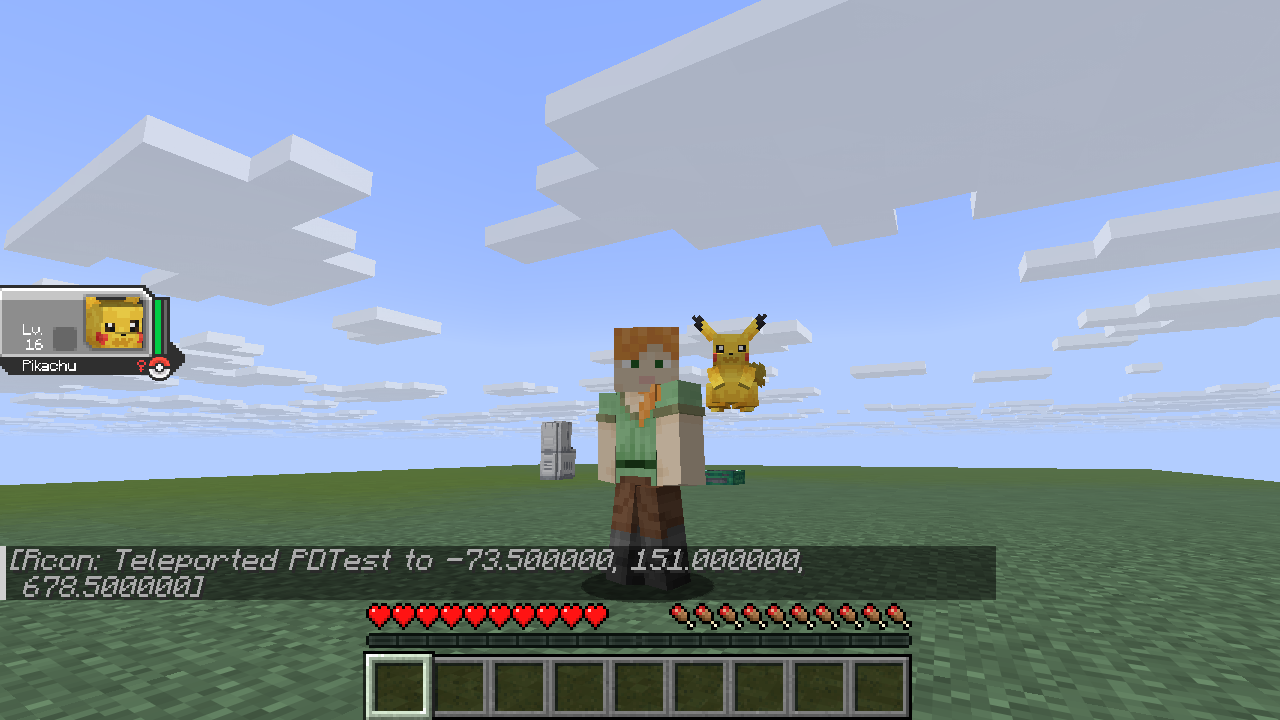
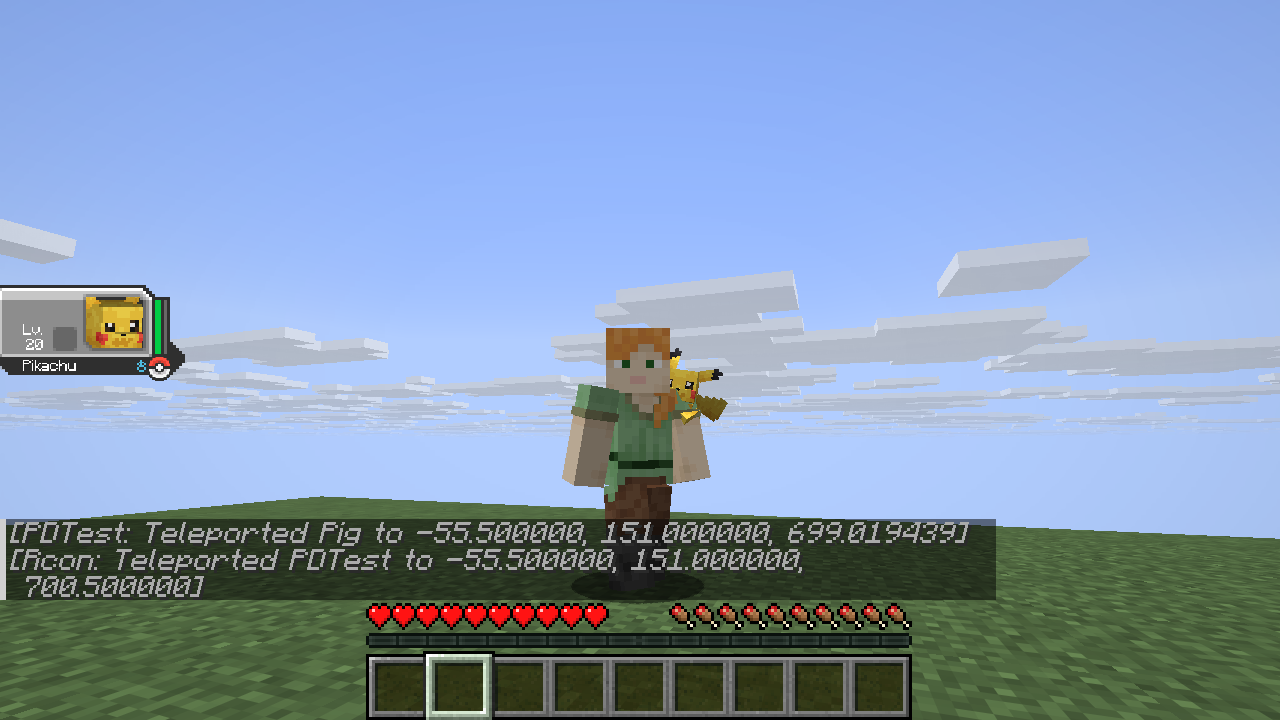
Shoulder Pokémon sit in Cobblemon's shoulder poses (shoulder_left / shoulder_right animations now converted)
Claude-Session: https://claude.ai/code/session_013qmVWfL2vttKu2B98Mqwws

diff --git a/plugin/src/main/java/io/github/kahngjoonkoh/cobblemonlink/Companions.java b/plugin/src/main/java/io/github/kahngjoonkoh/cobblemonlink/Companions.java
@@ -79,6 +79,7 @@ final class Companions {
         if (side < 0) return true;
         s[side] = e;
         e.setGravity(false);
+        Spawner.animate(e, side == 0 ? "shoulder_left" : "shoulder_right", kr.toxicity.model.api.animation.AnimationIterator.Type.LOOP);
         return true;
     }
 
@@ -208,6 +209,8 @@ final class Companions {
         for (int i = 0; i < 2; i++) if (e.equals(s[i])) s[i] = null;
         if (s[0] == null && s[1] == null) shoulders.remove(p.getUniqueId());
         e.setGravity(true);
+        Spawner.stopAnimation(e, "shoulder_left");
+        Spawner.stopAnimation(e, "shoulder_right");
         if (e.isValid()) e.teleport(spot(p));
     }
 
@@ -220,9 +223,8 @@ final class Companions {
                 if (s[i] == null) continue;
                 if (p == null || !s[i].isValid()) { s[i] = null; continue; }
                 Location l = p.getLocation();
-                double yaw = Math.toRadians(l.getYaw()), side = i == 0 ? 0.38 : -0.38, back = 0.12; // + left, - right of the player
-                Location at = l.clone().add(Math.cos(yaw) * side + Math.sin(yaw) * back, p.isSneaking() ? 0.95 : 1.25,
-                        Math.sin(yaw) * side - Math.cos(yaw) * back);
+                double yaw = Math.toRadians(l.getYaw()), side = 0; // the pose itself moves it onto the left or right shoulder
+                Location at = l.clone().add(Math.cos(yaw) * side, p.isSneaking() ? 0.9 : 1.2, Math.sin(yaw) * side);
                 at.setPitch(0);
                 s[i].teleport(at);
             }

diff --git a/tools/build_all.py b/tools/build_all.py
@@ -73,6 +73,10 @@ def plan(res):
             for dst, want, fallback in (('idle', 'STAND', 'ground_idle'), ('walk', 'WALK', 'ground_walk')):
                 anims[dst] = pose_anims(poser, want) or (poser_name, fallback)
             anims['battle_idle'] = pose_anims(poser, 'STAND', avoid=('water', 'fly', 'hover'), need='battle') or (poser_name, 'battle_idle')
+            for side in ('left', 'right'):  # Companions' shoulder riding
+                got = pose_anims(poser, f'SHOULDER_{side.upper()}', avoid=())
+                if got:
+                    anims[f'shoulder_{side}'] = got
             for dst in BATTLE:
                 m = BEDROCK_ANIM.search(poser.get('animations', {}).get(dst, ''))
                 anims[dst] = m.groups() if m else (poser_name, dst)

diff --git a/PARITY.md b/PARITY.md
@@ -88,7 +88,7 @@ Counts: see [the summary at the end](#summary).
 | Pokédex (seen / caught, entries, forms) | ✓ | `/pokedex`; no regional dexes or scanner | 🟡 | 🟡 |
 | Sending out / following | ✓ | Send out the lead | 🟡 | 🟡 |
 | Riding (1.7+) | 13 ride settings | Right-click your sent-out Pokémon with an empty hand to ride it (the 115 species with Cobblemon riding data), Shift to get off (Bedrock: tap it); it goes where you look at its SPEED stat; jumps on land, flies toward your aim if it has AIR, swims if it has LIQUID ([Java](docs/evidence/m24-java-riding-rapidash.png)); one rider, no stamina, sprint or seat offsets (the rider sits low in big models); Bedrock not checked on a client | 🟡 | 🟡 |
-| Shoulder mounting | ✓ | Shift + right-click your sent-out Pokémon (Cobblemon's 94 shoulderMountable species) to put it on a shoulder, left then right; Shift + right-click with an empty hand to let it down ([evidence](docs/evidence/m14-java-shoulder.png)); no shoulder pose or shoulder effects; Bedrock gets the same carrier moves but wasn't checked on a client | 🟡 | 🟡 |
+| Shoulder mounting | ✓ | Shift + right-click your sent-out Pokémon (Cobblemon's 94 shoulderMountable species) to put it on a shoulder, left then right; Shift + right-click with an empty hand to let it down ([evidence](docs/evidence/m14-java-shoulder.png)); sitting in Cobblemon's shoulder_left / shoulder_right poses; Bedrock: Shift + tap; no shoulder effects; Bedrock gets the same carrier and animation but wasn't checked on a client | 🟡 | 🟡 |
 | Pasture | ✓ | The Pasture block: party Pokémon put out roam around it, taken back from its chest menu (up to 16) | 🟡 | 🟡 |
 | Breeding, eggs | Not in 1.8.2 | — | ➖ | ➖ |
 | Size variation | ✓ | Cobblemon's Pokemon.scale: each Pokémon is born 0.95-1.05x, the young grow from 0.9x at level 1 to full size at level 9, alphas by Cobblemon's formula; wild, sent out, in battle and in the pasture, on both clients (the tracker's scale) ([alpha, adult, level 1](docs/evidence/m17-java-sizes.png)) | ✅ | ✅ |
